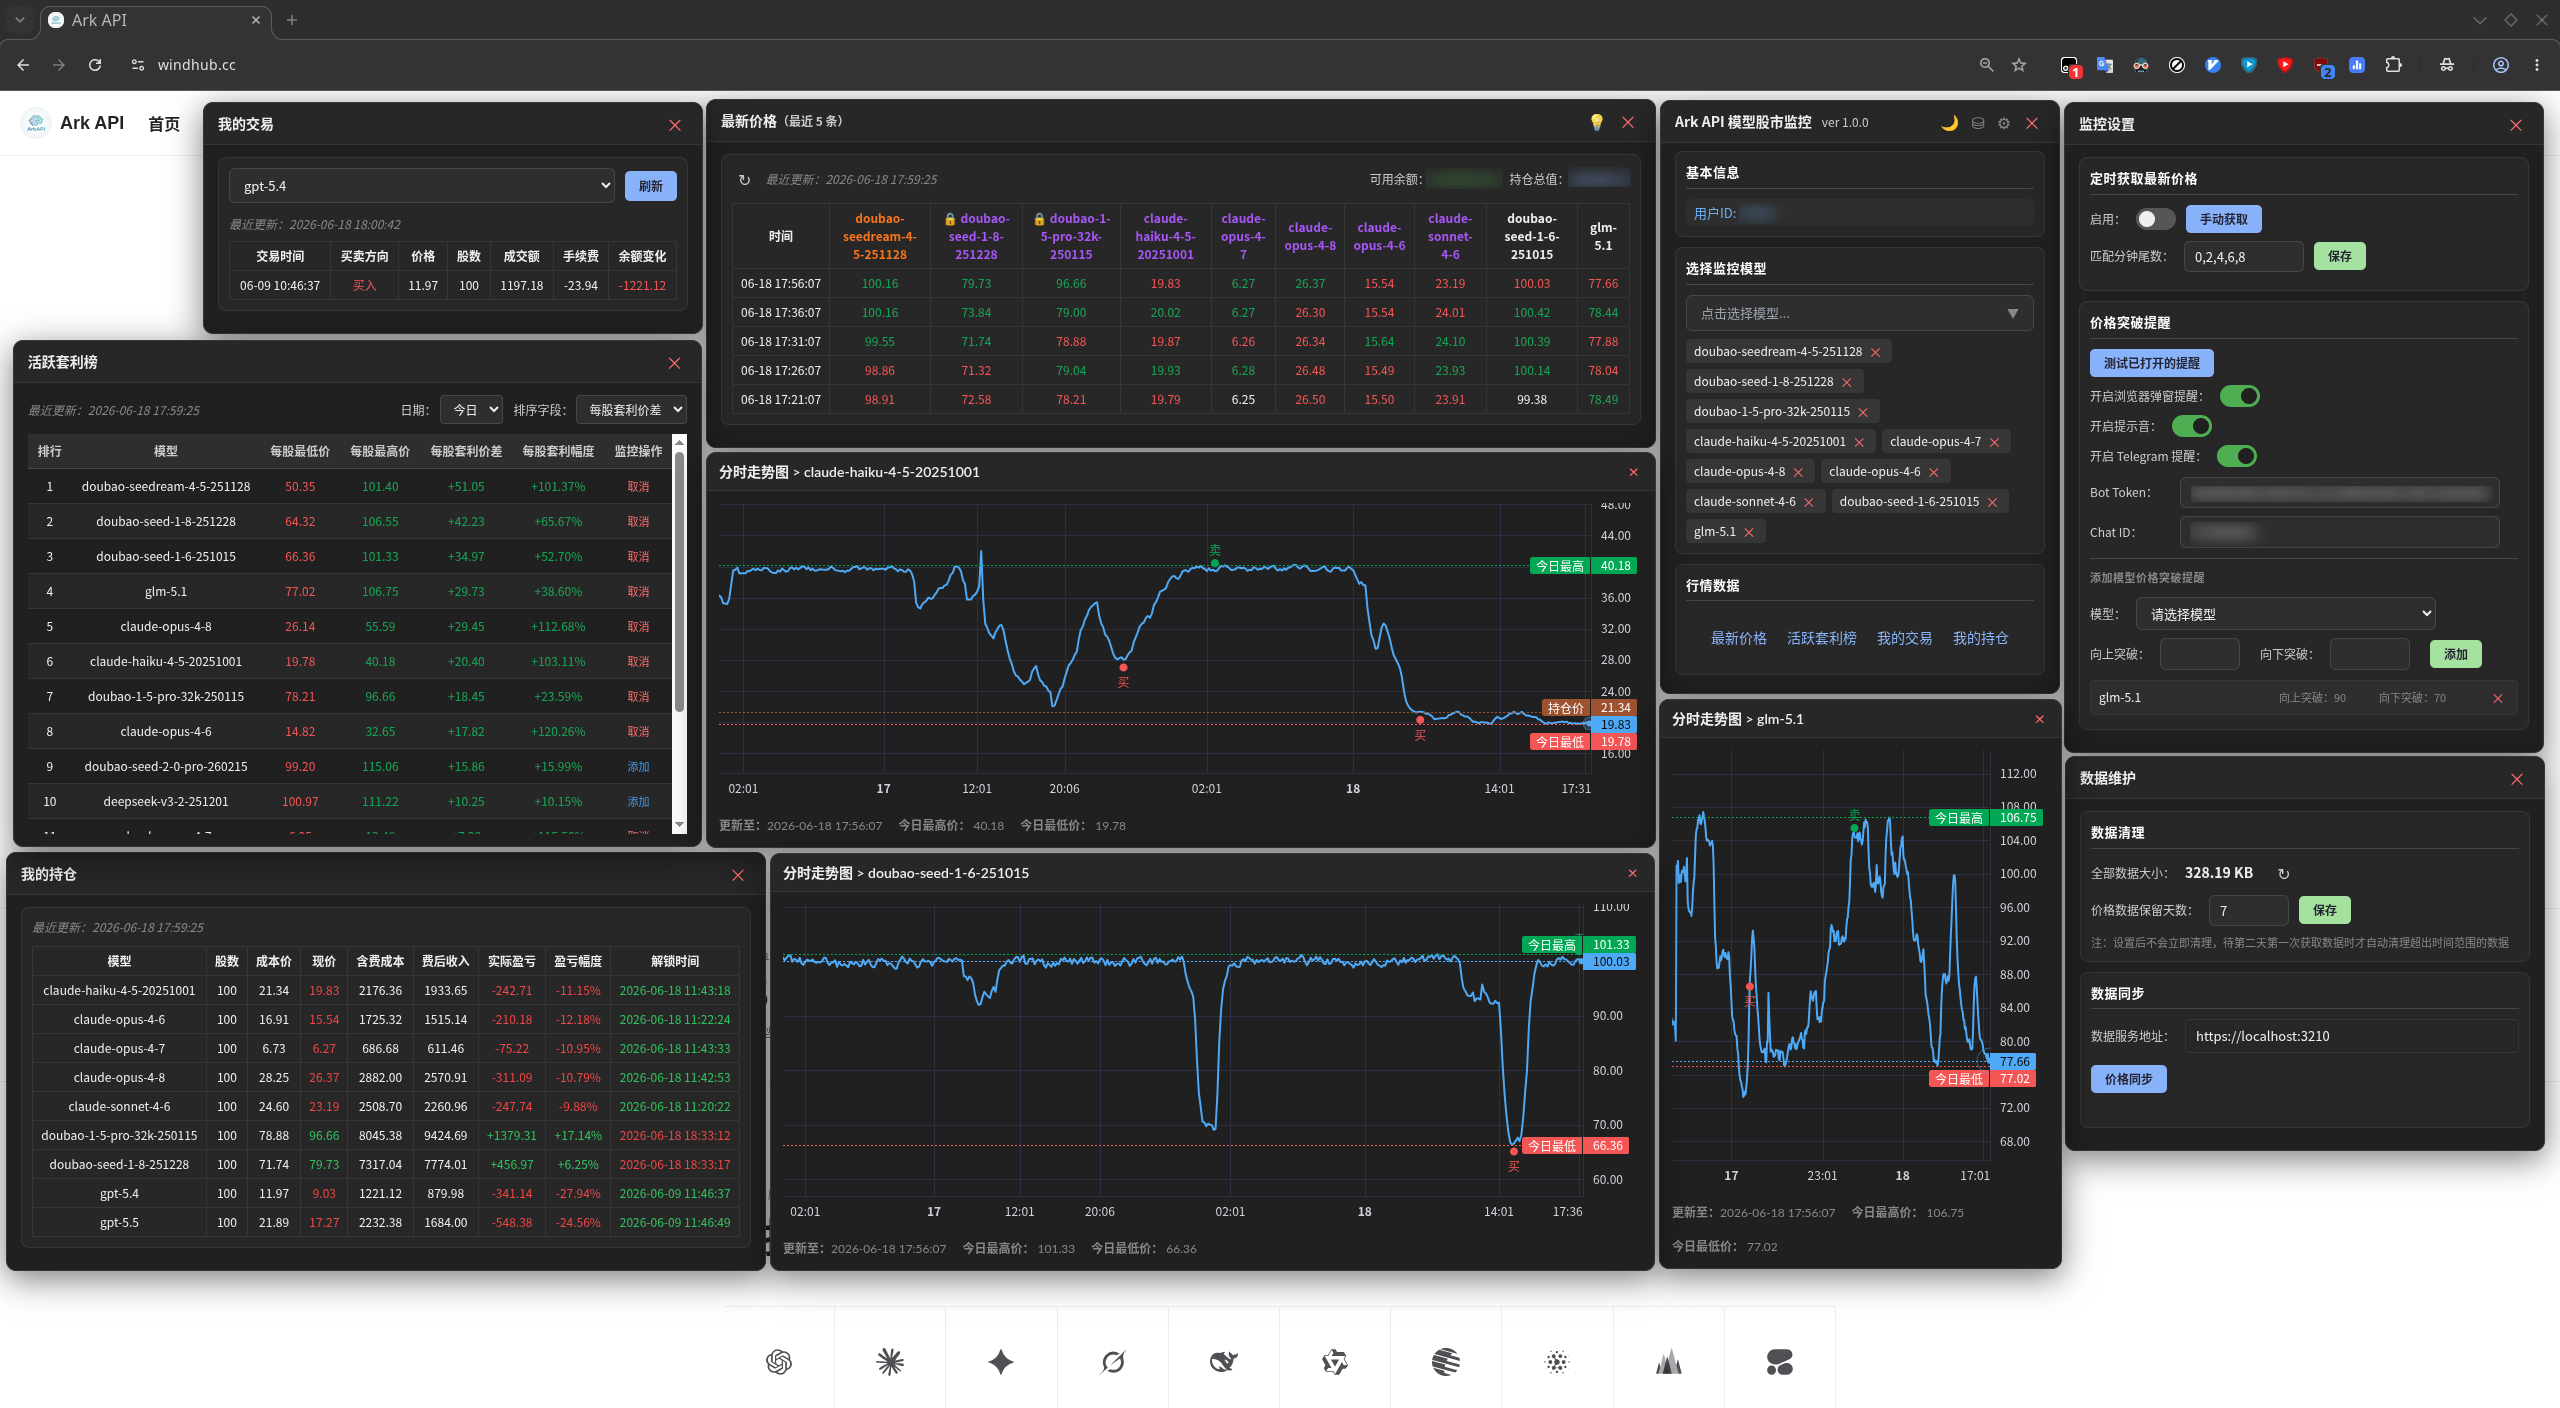
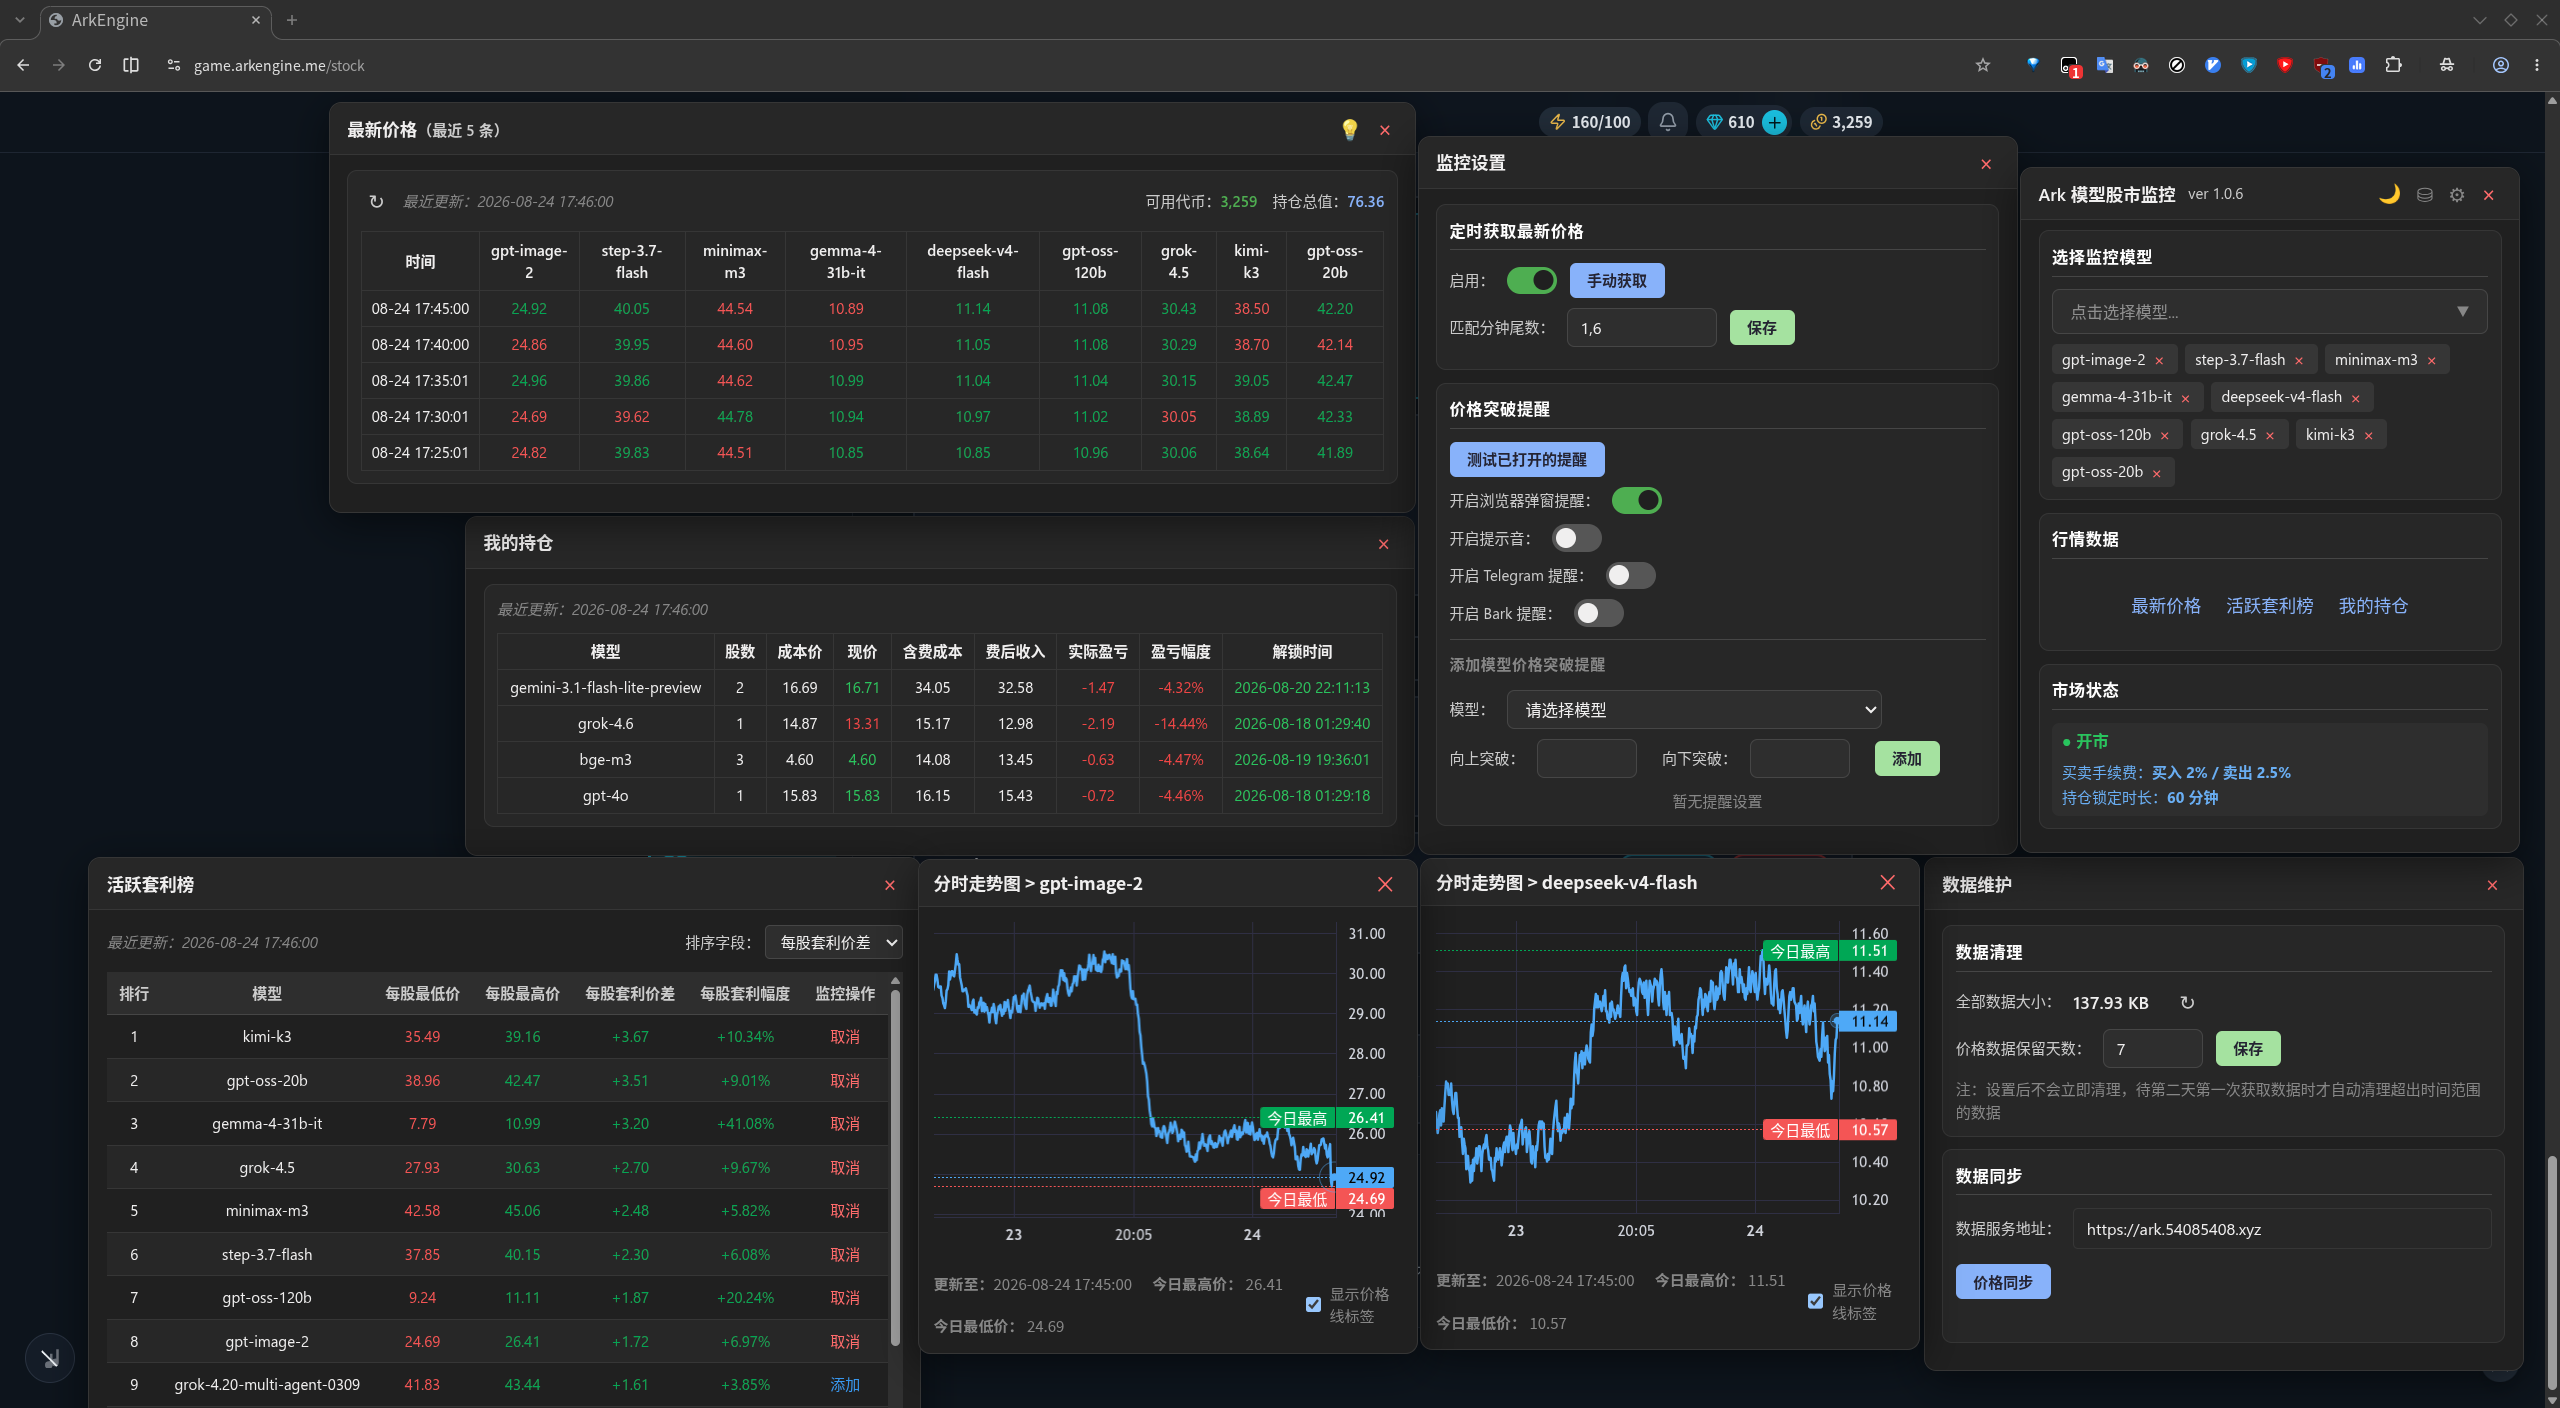
fix: 修复日间主题部分控件的样式问题

diff --git a/ark-game-stock-monitor.user.js b/ark-game-stock-monitor.user.js
@@ -2,7 +2,7 @@
 // @name         Ark API 模型股市监控
 // @description  Ark 模型股市数据聚合分析与价格变动通知（game.arkengine.me）
 // @namespace    http://tampermonkey.net/
-// @version      1.0.6
+// @version      1.0.7
 // @author       ziugat
 // @license      GPL-3.0
 // @homepage     https://github.com/ZiugatWong/ark-api-model-stock-market-monitor
@@ -2211,6 +2211,29 @@
       color: var(--ark-text);
       border-color: var(--ark-border);
       box-shadow: 0 8px 32px var(--ark-shadow);
+      /* 让原生控件（滚动条、数字输入加减按钮等）随日间主题变浅，
+         覆盖宿主页面可能设置的 color-scheme: dark */
+      color-scheme: light;
+    }
+
+    /* 滚动条：兜底覆盖宿主页面可能手写的深色 ::-webkit-scrollbar */
+    body.ark-theme-light [id^="ark-"] ::-webkit-scrollbar,
+    body.ark-theme-light .ark-chart-panel ::-webkit-scrollbar {
+      width: 8px;
+      height: 8px;
+    }
+    body.ark-theme-light [id^="ark-"] ::-webkit-scrollbar-track,
+    body.ark-theme-light .ark-chart-panel ::-webkit-scrollbar-track {
+      background: var(--ark-surface);
+    }
+    body.ark-theme-light [id^="ark-"] ::-webkit-scrollbar-thumb,
+    body.ark-theme-light .ark-chart-panel ::-webkit-scrollbar-thumb {
+      background: var(--ark-border-2);
+      border-radius: 4px;
+    }
+    body.ark-theme-light [id^="ark-"] ::-webkit-scrollbar-thumb:hover,
+    body.ark-theme-light .ark-chart-panel ::-webkit-scrollbar-thumb:hover {
+      background: var(--ark-muted);
     }
 
     /* 标题栏 */

diff --git a/README.md b/README.md
@@ -1,10 +1,14 @@
-# Ark 模型股市监控
-
 <div align="center">
+<h1>Ark 模型股票监控</h1>
+<a href="https://greasyfork.org/zh-CN/scripts/582321"><img alt="Greasyfork Version" src="https://img.shields.io/greasyfork/v/582321?style=flat-square"></a>
+<a href="https://greasyfork.org/zh-CN/scripts/582321"><img alt="Downloads Total" src="https://img.shields.io/greasyfork/dt/582321?style=flat-square&color=green"></a>
+<a href="https://greasyfork.org/zh-CN/scripts/582321"><img alt="Downloads Per Day" src="https://img.shields.io/greasyfork/dd/582321?style=flat-square&color=orange"></a>
+<a href="https://greasyfork.org/zh-CN/scripts/582321"><img alt="Rating" src="https://img.shields.io/greasyfork/rating-count/582321?style=flat-square"></a>
+<br>
 <br>
 </div>
 
-为 [game.arkengine.me](https://game.arkengine.me)  Ark 站点里的模型股市提供实时价格监控、历史数据可视化、持仓盈亏计算和通知提醒的全功能 Tampermonkey 面板（原 windhub.cc 站点已迁移至此）。
+为  Ark 站点 [game.arkengine.me](https://game.arkengine.me) 里的模型股市提供实时价格监控、历史数据可视化、持仓盈亏计算和通知提醒的全功能 Tampermonkey 面板。
 
 ## 界面预览
 
